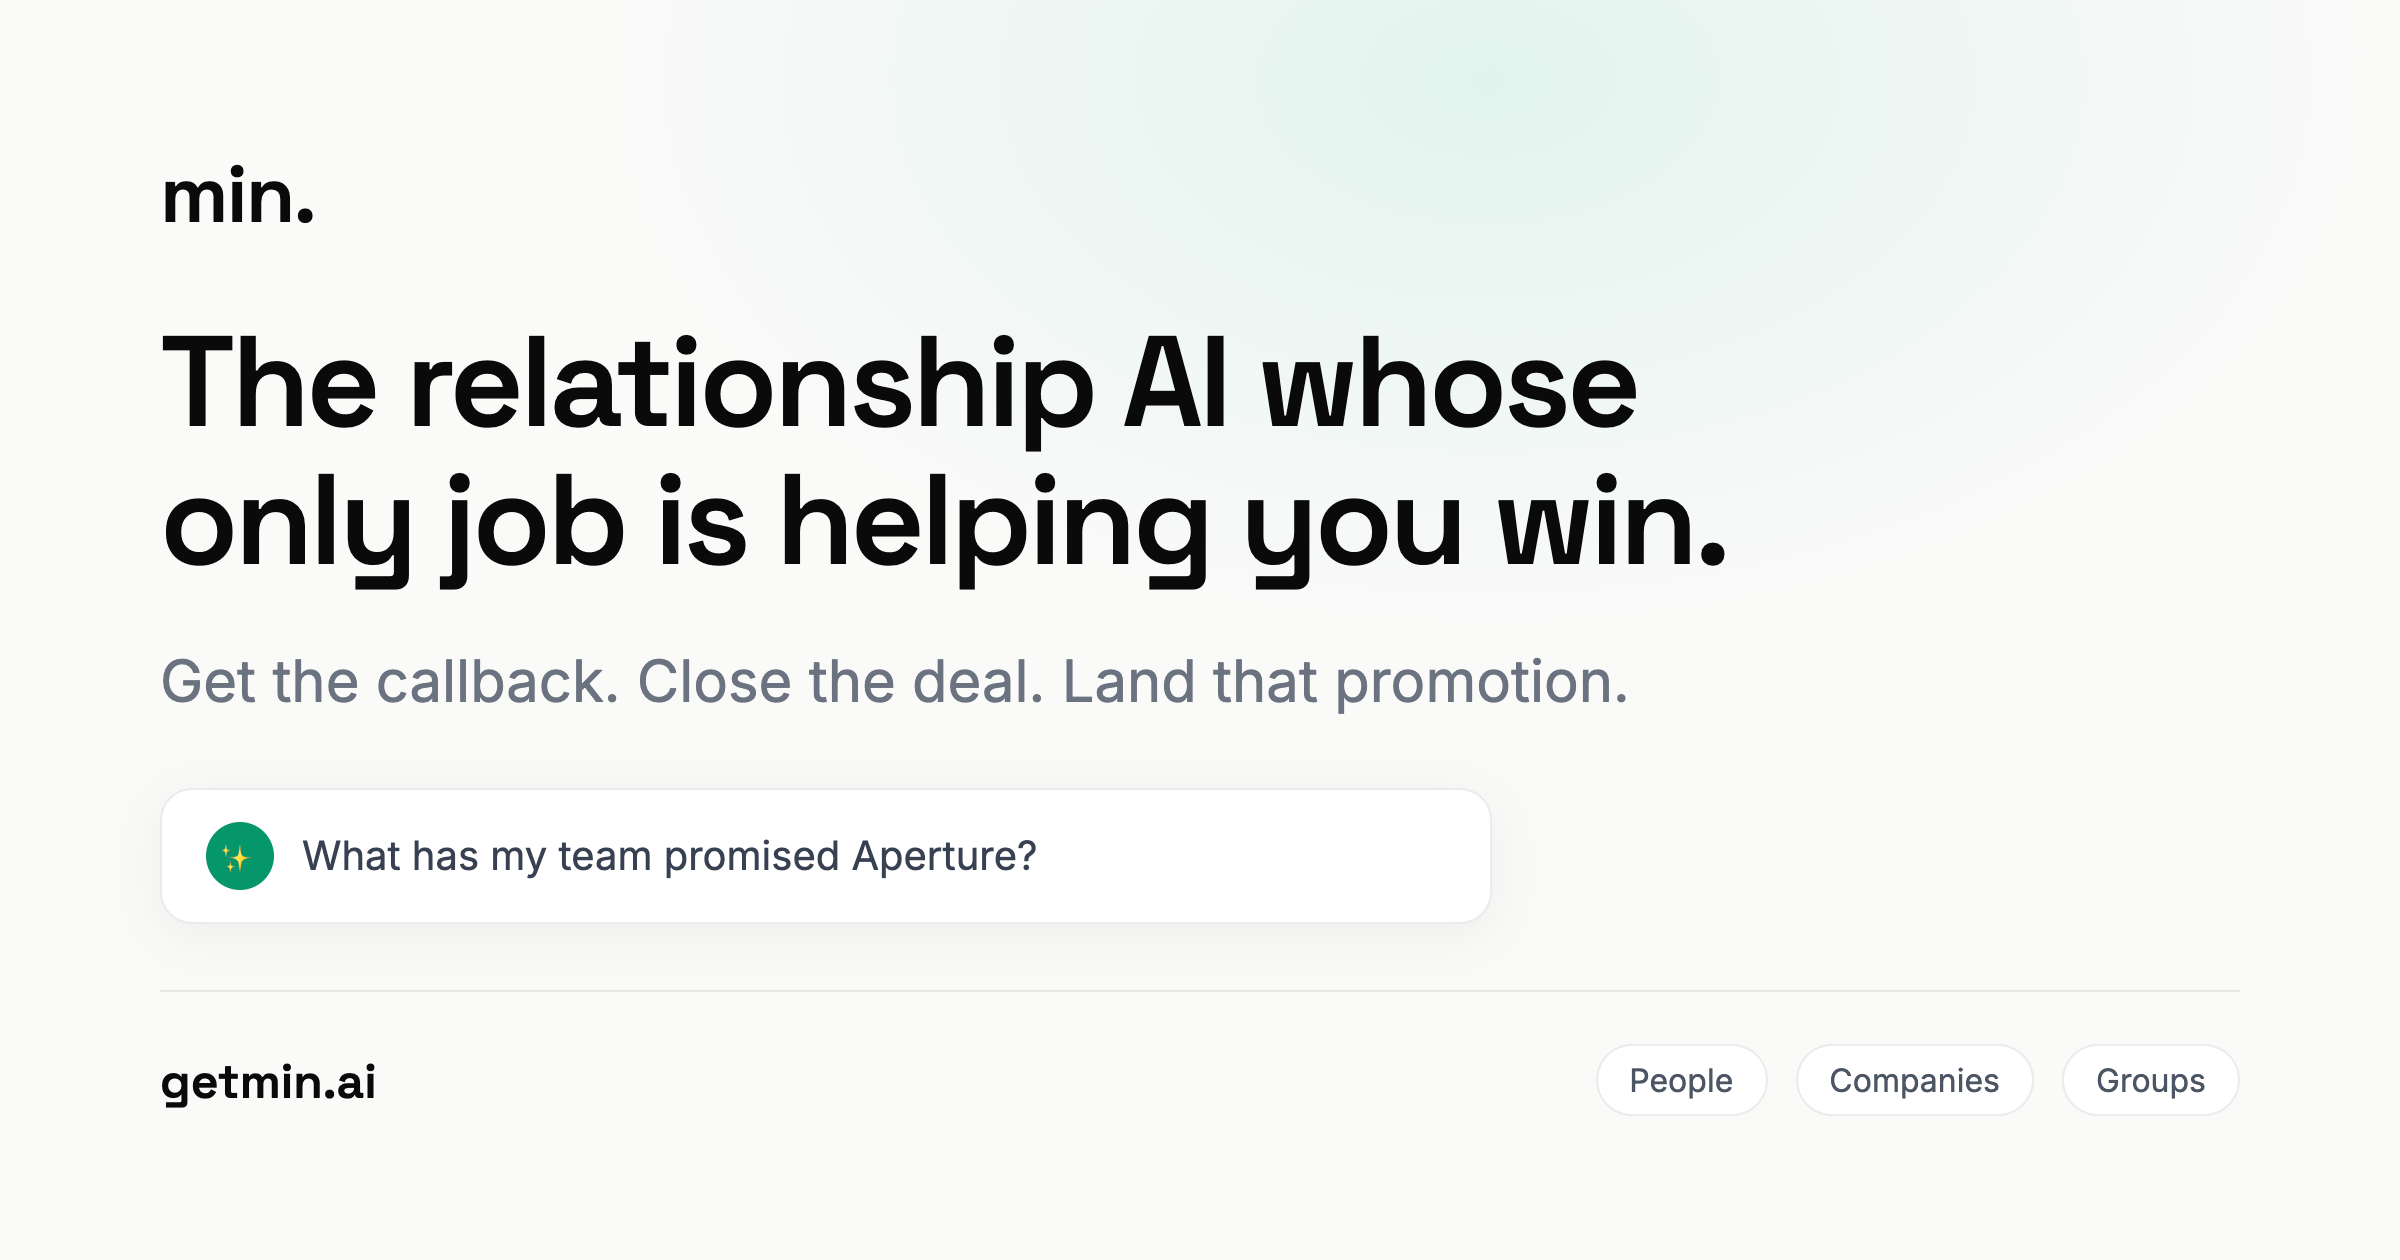
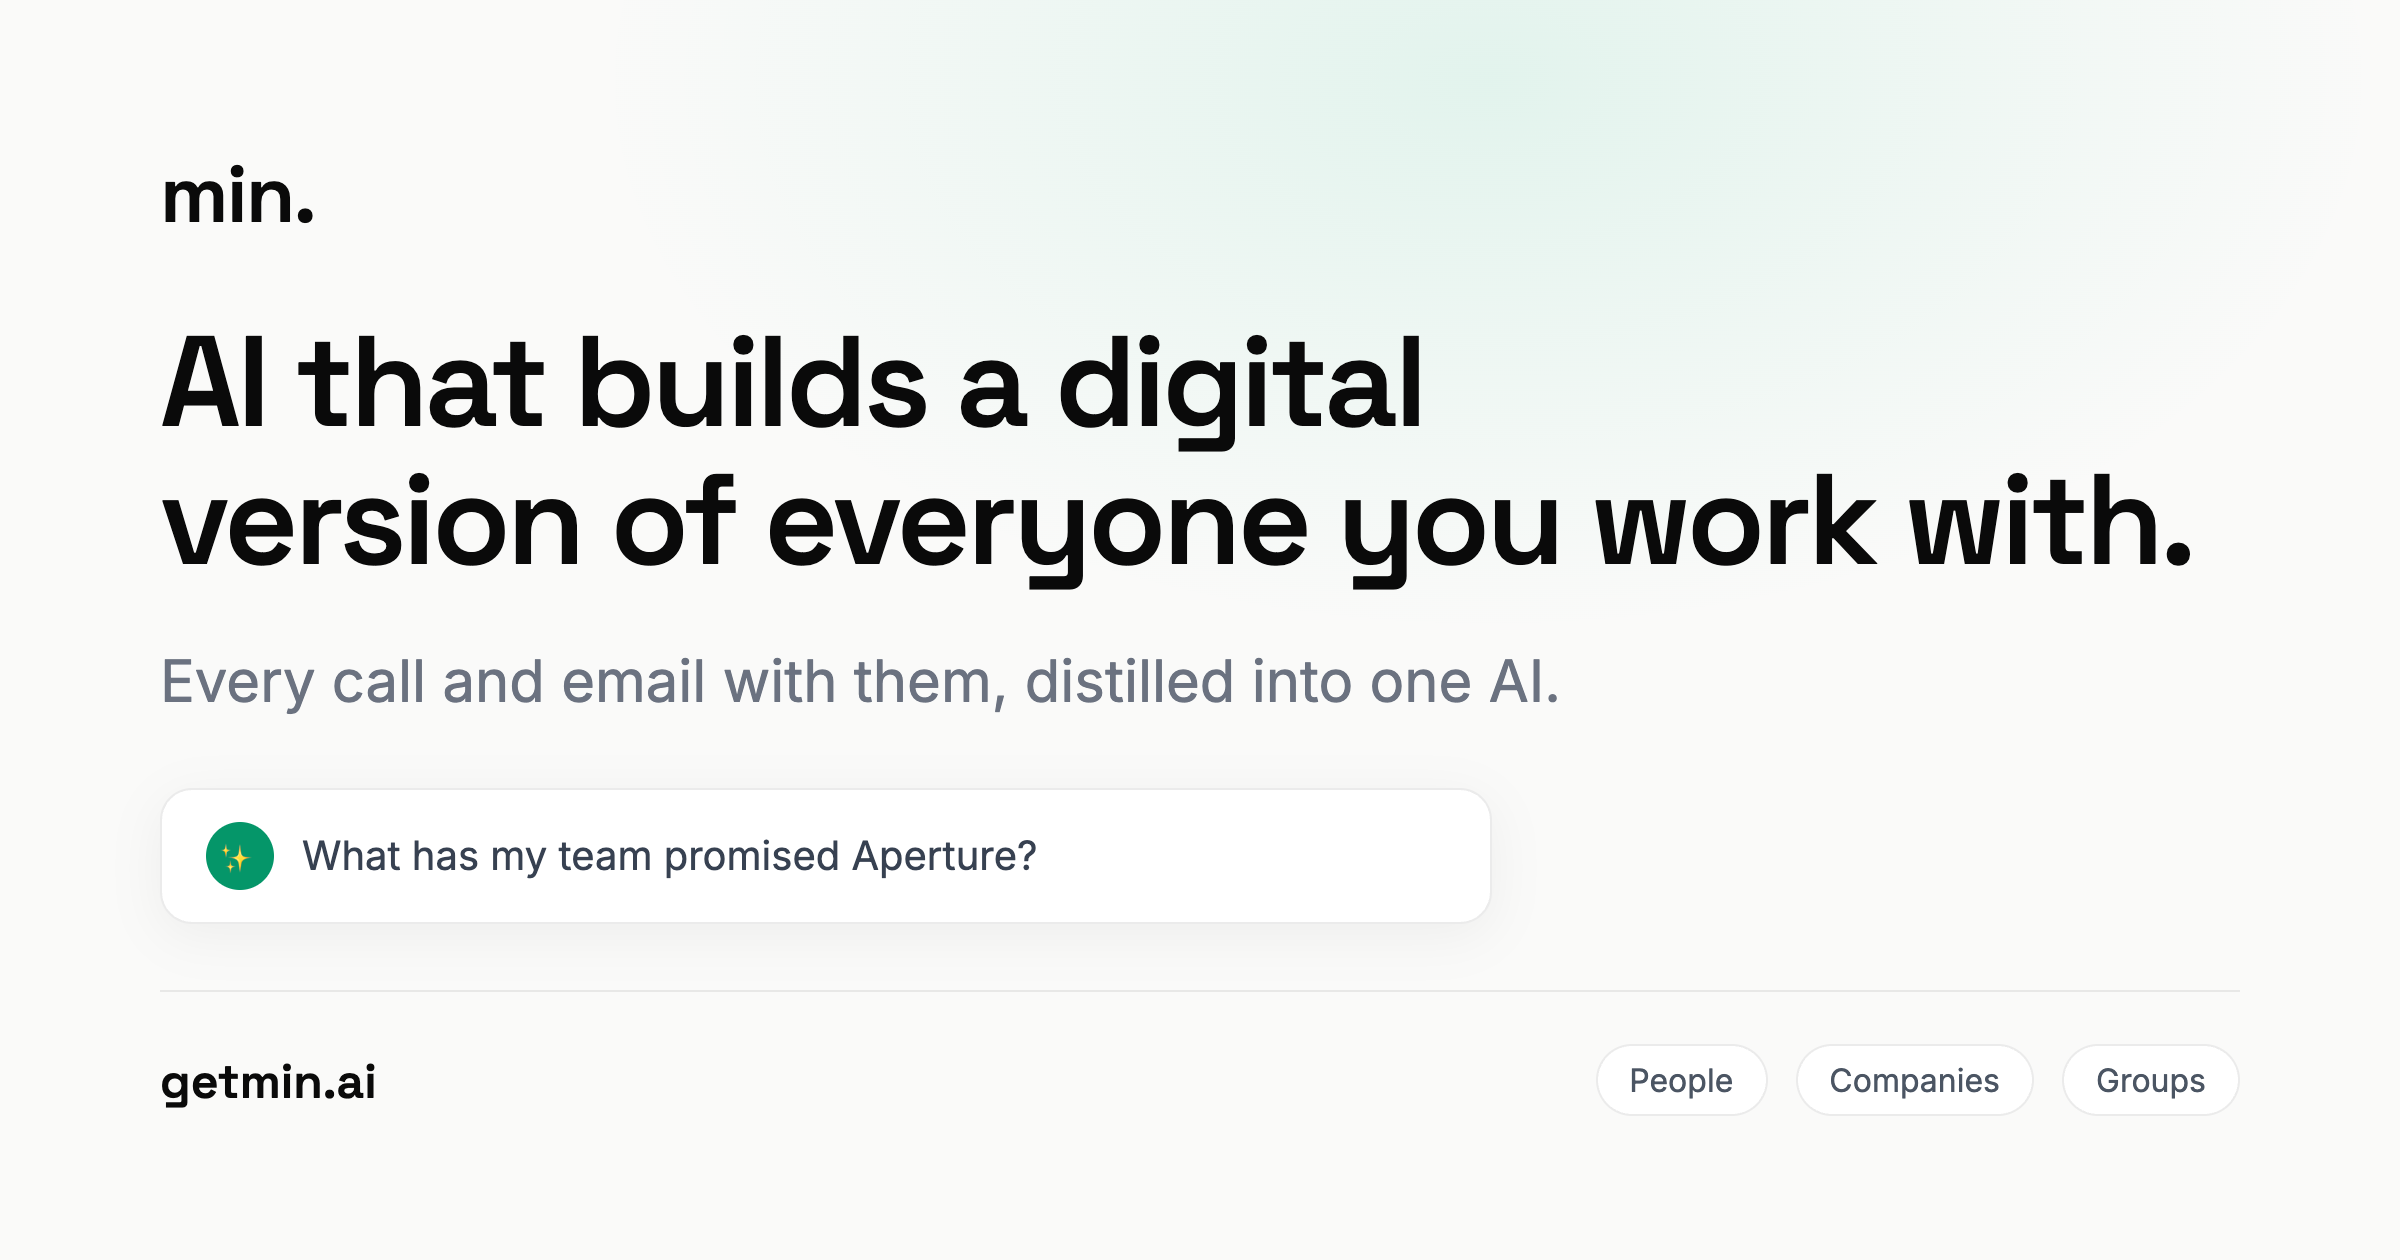
Bring the site onto the digital-version line
The pitch and the sections are unchanged. This is only the copy that names what
min. is, which was still one positioning behind the launch gallery.

Hero leads with the line and the sub-line supplies the mechanism, since "digital
version" raises "of what, built from what?" immediately. The win triplet
survives, it just follows the mechanism instead of leading.

"Whose only job is helping you win" is too good to retire, so it moves to the
closing CTA. As a closer it reads as a promise; as a category descriptor it was
doing a job the new line does better.

The capsule section, which the nav calls Relationship AI, becomes "This is what
min. builds" and names its output a digital version rather than a page. The
demo underneath answers the headline instead of restating it.

"Relationship AI" stays in the nav anchor, llms.txt and the structured data.
That is the category people search; the tagline is the mechanism. Dropping the
category to chase the mechanism is how a site stops being findable.

Also regenerates the OG card, which still showed the old hero to every social
scrape, and fixes two lines in the crawler-readable block that were flagged
earlier and never corrected: "for your whole team" and "get the promotion",
where the site says "land that promotion" everywhere else.

Changed region(s): [[0.0625, 0.2476, 0.9062, 0.4643], [0.0625, 0.5262, 0.6875, 0.5571]]

diff --git a/index.html b/index.html
@@ -4,32 +4,32 @@
   <head>
     <meta charset="UTF-8" />
     <meta name="viewport" content="width=device-width, initial-scale=1.0" />
-    <title>The relationship AI whose only job is helping you win | min.</title>
+    <title>AI that builds a digital version of everyone you work with | min.</title>
     <!-- Primary Meta Tags -->
-    <meta name="title" content="The relationship AI whose only job is helping you win | min." />
-    <meta name="description" content="min. turns every call and email into your unfair advantage. Get the callback. Close the deal. Land that promotion." />
+    <meta name="title" content="AI that builds a digital version of everyone you work with | min." />
+    <meta name="description" content="min. builds a digital version of everyone you work with, from every call and email. Get the callback. Close the deal. Land that promotion." />
     <meta name="keywords" content="relationship AI, relationship assistant, relationship memory, relationship context layer, memory layer for CRM, relationship capsule, CRM alternative, calendar and email assistant, meeting prep, follow up reminders, relationship management" />
     <meta name="author" content="min." />
 
     <!-- Open Graph / Facebook -->
     <meta property="og:type" content="website" />
     <meta property="og:url" content="https://getmin.ai/" />
-    <meta property="og:title" content="The relationship AI whose only job is helping you win | min." />
-    <meta property="og:description" content="min. turns every call and email into your unfair advantage. Get the callback. Close the deal. Land that promotion." />
+    <meta property="og:title" content="AI that builds a digital version of everyone you work with | min." />
+    <meta property="og:description" content="min. builds a digital version of everyone you work with, from every call and email. Get the callback. Close the deal. Land that promotion." />
     <meta property="og:image" content="https://getmin.ai/og-cover.png" />
     <meta property="og:image:width" content="2400" />
     <meta property="og:image:height" content="1260" />
-    <meta property="og:image:alt" content="min. — the relationship AI whose only job is helping you win" />
+    <meta property="og:image:alt" content="min. — AI that builds a digital version of everyone you work with" />
     <meta property="og:site_name" content="min." />
     <meta property="og:locale" content="en_US" />
 
     <!-- Twitter -->
     <meta name="twitter:card" content="summary_large_image" />
     <meta name="twitter:url" content="https://getmin.ai/" />
-    <meta name="twitter:title" content="The relationship AI whose only job is helping you win | min." />
-    <meta name="twitter:description" content="min. turns every call and email into your unfair advantage. Get the callback. Close the deal. Land that promotion." />
+    <meta name="twitter:title" content="AI that builds a digital version of everyone you work with | min." />
+    <meta name="twitter:description" content="min. builds a digital version of everyone you work with, from every call and email. Get the callback. Close the deal. Land that promotion." />
     <meta name="twitter:image" content="https://getmin.ai/og-cover.png" />
-    <meta name="twitter:image:alt" content="min. — the relationship AI whose only job is helping you win" />
+    <meta name="twitter:image:alt" content="min. — AI that builds a digital version of everyone you work with" />
     <meta name="twitter:creator" content="@getminai" />
     <meta name="twitter:site" content="@getminai" />
     
@@ -57,7 +57,7 @@
           "name": "min.",
           "url": "https://getmin.ai",
           "logo": "https://getmin.ai/favicon.png",
-          "slogan": "The relationship AI whose only job is helping you win.",
+          "slogan": "AI that builds a digital version of everyone you work with.",
           "email": "hello@getmin.ai",
           "sameAs": ["https://x.com/getminai"]
         },
@@ -72,7 +72,7 @@
           "@type": "SoftwareApplication",
           "@id": "https://getmin.ai/#app",
           "name": "min.",
-          "description": "The relationship AI whose only job is helping you win. min. records meetings without a bot, reads email and calendar, and distills every relationship that decides your outcomes into a living capsule: where you stand, action items, and history. It does not just answer, it acts: books the meeting, drafts the follow up, chases what is owed.",
+          "description": "AI that builds a digital version of everyone you work with. min. records meetings without a bot, reads email and calendar, and distills every relationship that decides your outcomes into a living capsule: where you stand, action items, and history. It does not just answer, it acts: books the meeting, drafts the follow up, chases what is owed.",
           "applicationCategory": "BusinessApplication",
           "applicationSubCategory": "Relationship Intelligence",
           "operatingSystem": "macOS, Windows",
@@ -156,7 +156,7 @@
         <style>#root > main[hidden] { display: block; }</style>
       </noscript>
       <main hidden>
-        <h1>The relationship AI whose only job is helping you win.</h1>
+        <h1>AI that builds a digital version of everyone you work with.</h1>
         <p>
           Get the callback. Close the deal. Land that promotion. min. turns
           every call and email into your unfair advantage.
@@ -164,7 +164,7 @@
         <p>For macOS and Windows. Google and Outlook calendars. Two minute setup.</p>
         <p>
           Work runs on relationships. Your tools remember meetings and threads.
-          min. remembers relationships, for your whole team.
+          min. remembers the people, and keeps their digital version current.
         </p>
         <h2>Works with any stack.</h2>
         <p>
@@ -187,7 +187,7 @@
         <h2>Three demos, three arenas.</h2>
         <p>
           The interactive demo has three capsules to pick from: close the deal
-          (a pilot working group with a founder and an ops lead), get the
+          (a pilot working group with a founder and an ops lead), land that
           promotion (a year of one on ones with your manager), and get hired
           (two interviews with a head of engineering). Each shows where you
           stand, action items with deadlines, the history, and a live rail

diff --git a/src/pages/About.tsx b/src/pages/About.tsx
@@ -39,7 +39,7 @@ export default function About() {
     "@type": "AboutPage",
     name: "About min.",
     description:
-      "min. is the relationship AI whose only job is helping you win. It turns your calls, email, and calendar into a living memory of every relationship, then puts that memory to work: the prep, the follow up, the next move.",
+      "min. is AI that builds a digital version of everyone you work with. It turns your calls, email, and calendar into a living memory of every relationship, then puts that memory to work: the prep, the follow up, the next move.",
     url: "https://getmin.ai/about",
     mainEntity: {
       "@type": "Organization",
@@ -55,7 +55,7 @@ export default function About() {
   return (
     <>
       <Helmet>
-        <title>About min. | The relationship AI whose only job is helping you win</title>
+        <title>About min. | AI that builds a digital version of everyone you work with</title>
         <meta
           name="description"
           content="min. turns your calendar and email into a living memory of every relationship, person, company, and group, so the people whose work runs on relationships never have to rely on memory alone."

diff --git a/src/components/landing/CapsuleUpClose.tsx b/src/components/landing/CapsuleUpClose.tsx
@@ -16,15 +16,15 @@ export default function CapsuleUpClose() {
         <FadeIn>
           <div className="mx-auto max-w-2xl text-center">
             <h2 className="font-display text-3xl font-semibold tracking-tight text-gray-900 md:text-[2.75rem] md:leading-[1.1]">
-              Relationship context continuously fed into min.
+              This is what min. builds.
             </h2>
             <p className="mx-auto mt-4 max-w-xl text-[17px] leading-relaxed text-gray-500">
               <span className="font-medium text-gray-900">
                 It reads between the lines, and across every call, email, and
                 thread.
               </span>{" "}
-              One page on the people deciding your deal, your promotion, your
-              callback. Always current.
+              One digital version per person deciding your deal, your promotion,
+                your callback. Always current.
             </p>
           </div>
         </FadeIn>

diff --git a/src/components/landing/LandingHero.tsx b/src/components/landing/LandingHero.tsx
@@ -15,14 +15,14 @@ export default function LandingHero() {
         <div className="text-center lg:text-left">
           <FadeIn delay={0.1}>
             <h1 className="font-display text-[2.6rem] font-semibold leading-[1.08] tracking-tight text-gray-900 sm:text-5xl md:text-6xl">
-              The relationship AI whose only job is helping you win.
+              AI that builds a digital version of everyone you work with.
             </h1>
           </FadeIn>
 
           <FadeIn delay={0.18}>
             <p className="mx-auto mt-6 max-w-xl text-[17px] leading-relaxed text-gray-500 lg:mx-0">
-              Get the callback. Close the deal. Land that promotion. min. turns
-              every call and email into your unfair advantage.
+              Every call and email with them, distilled into one AI. Get the
+                callback. Close the deal. Land that promotion.
             </p>
           </FadeIn>
 

diff --git a/src/components/landing/FinalCTA.tsx b/src/components/landing/FinalCTA.tsx
@@ -16,9 +16,9 @@ export default function FinalCTA() {
               <br className="hidden sm:block" /> working for you.
             </h2>
             <p className="mx-auto mb-10 max-w-xl text-lg leading-relaxed text-gray-400">
-              The whole context continuously fed into your AI that loves
-              winning, the next right move, the follow up already on the
-              calendar.
+              A digital version of everyone you work with, whose only job is
+                helping you win: the next right move, the follow up already on
+                the calendar.
             </p>
             <div className="flex flex-col items-center justify-center gap-4 sm:flex-row">
               <a

diff --git a/src/components/MinFooter.tsx b/src/components/MinFooter.tsx
@@ -41,10 +41,9 @@ export default function MinFooter() {
               min.
             </Link>
             <p className="text-gray-500 text-sm leading-relaxed max-w-xs">
-              The relationship AI whose only job is helping you win. min. turns
-              scattered calls and emails into a living memory of everyone you
-              work with, then puts it to work: the prep, the follow up, the
-              next move.
+              AI that builds a digital version of everyone you work with. min.
+              turns scattered calls and emails into a living memory, then puts it
+              to work: the prep, the follow up, the next move.
             </p>
           </div>
 

diff --git a/src/pages/Index.tsx b/src/pages/Index.tsx
@@ -12,10 +12,10 @@ const Index = () => {
   return (
     <>
       <Helmet>
-        <title>The relationship AI whose only job is helping you win | min.</title>
+        <title>AI that builds a digital version of everyone you work with | min.</title>
         <meta
           name="description"
-          content="min. turns every call and email into your unfair advantage. Get the callback. Close the deal. Land that promotion."
+          content="min. builds a digital version of everyone you work with, from every call and email. Get the callback. Close the deal. Land that promotion."
         />
         <link rel="canonical" href="https://getmin.ai/" />
       </Helmet>

diff --git a/src/pages/Contact.tsx b/src/pages/Contact.tsx
@@ -66,7 +66,7 @@ export default function Contact() {
         <title>Contact min.</title>
         <meta
           name="description"
-          content="The relationship AI whose only job is helping you win. Get in touch with min. for sales, support, partnerships, investors, press. Email hello@getmin.ai, average reply under 2 hours."
+          content="AI that builds a digital version of everyone you work with. Get in touch with min. for sales, support, partnerships, investors, press. Email hello@getmin.ai, average reply under 2 hours."
         />
         <link rel="canonical" href="https://getmin.ai/contact/" />
       </Helmet>

diff --git a/worker/src/index.ts b/worker/src/index.ts
@@ -126,7 +126,7 @@ async function loadKnowledge(): Promise<string> {
   // If the fetch fails the bot should still be able to answer the basics
   // rather than hallucinate them.
   return [
-    "min. is the relationship AI whose only job is helping you win.",
+    "min. is AI that builds a digital version of everyone you work with, a relationship AI whose only job is helping you win.",
     "It records meetings without a bot, reads email and calendar, and distills every",
     "relationship into a living capsule: where you stand, action items, history.",
     "It also acts: books meetings, drafts follow ups, chases what is owed.",

diff --git a/public/og-image.html b/public/og-image.html
@@ -148,10 +148,10 @@
             <div>
                 <div class="logo">min.</div>
                 <div class="headline">
-                    The relationship AI whose<br>only job is helping you win.
+                    AI that builds a digital<br>version of everyone you work with.
                 </div>
                 <div class="subheadline">
-                    Get the callback. Close the deal. Land that promotion.
+                    Every call and email with them, distilled into one AI.
                 </div>
             </div>
 

diff --git a/src/pages/BlogPost.tsx b/src/pages/BlogPost.tsx
@@ -127,7 +127,7 @@ const BlogPost = () => {
                 </p>
                 <p className="mt-2 text-[15px] leading-relaxed text-gray-600">
                   It sits on your calls and email and keeps every relationship
-                  distilled into one page: where you stand, action items, history.
+                  distilled into one AI: where you stand, action items, history.
                   Free to use, two minute setup.
                 </p>
                 <a

diff --git a/src/pages/TermsOfService.tsx b/src/pages/TermsOfService.tsx
@@ -45,7 +45,7 @@ const TermsOfService = () => {
         <title>Terms of Service | min.</title>
         <meta
           name="description"
-          content="The terms covering your use of min., the relationship AI whose only job is helping you win."
+          content="The terms covering your use of min., AI that builds a digital version of everyone you work with."
         />
         <link rel="canonical" href="https://getmin.ai/terms/" />
       </Helmet>
